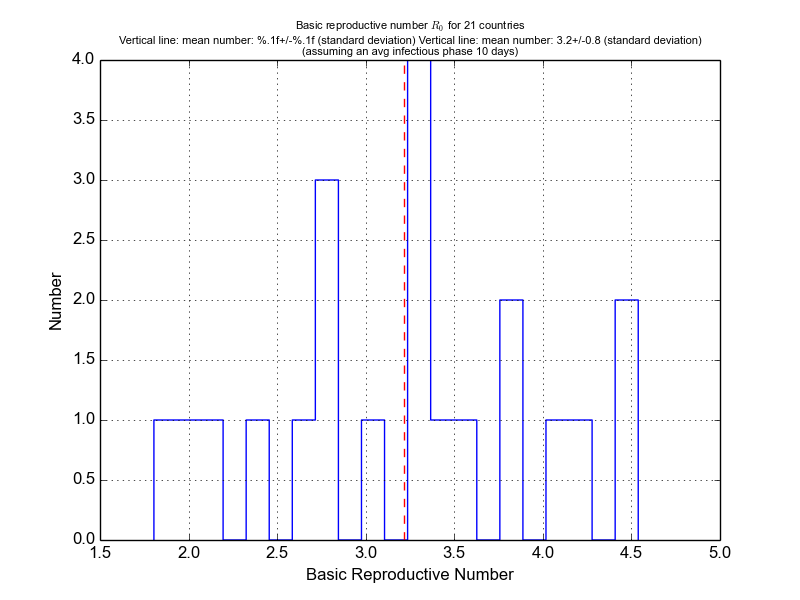
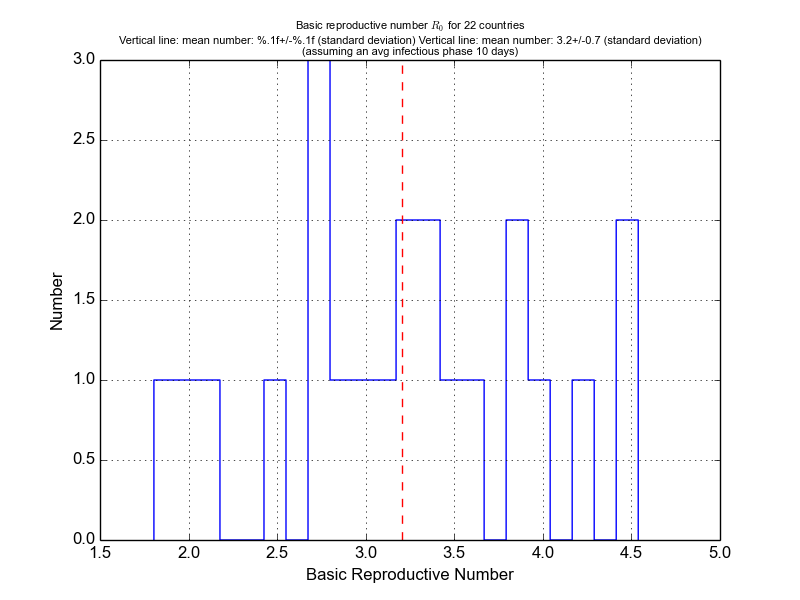
added switzerland

diff --git a/README.md b/README.md
@@ -166,6 +166,10 @@ Look for the green lines, representing the new, slow-down increase.
 ![COVID-19 Netherlands Evolution](country_plots/COVID-19_LIN_Netherlands.png)
 ![COVID-19 Netherlands Evolution](country_plots/COVID-19_LIN_Netherlands_SIM_CASES.png)
 
+## Switzerland
+![COVID-19 Switzerland Evolution](country_plots/COVID-19_LIN_Switzerland.png)
+![COVID-19 Switzerland Evolution](country_plots/COVID-19_LIN_Switzerland_SIM_CASES.png)
+
 ## Bulgaria
 ![COVID-19 Bulgaria Evolution](country_plots/COVID-19_LIN_Bulgaria.png)
 ![COVID-19 Bulgaria Evolution](country_plots/COVID-19_LIN_Bulgaria_SIM_CASES.png)
